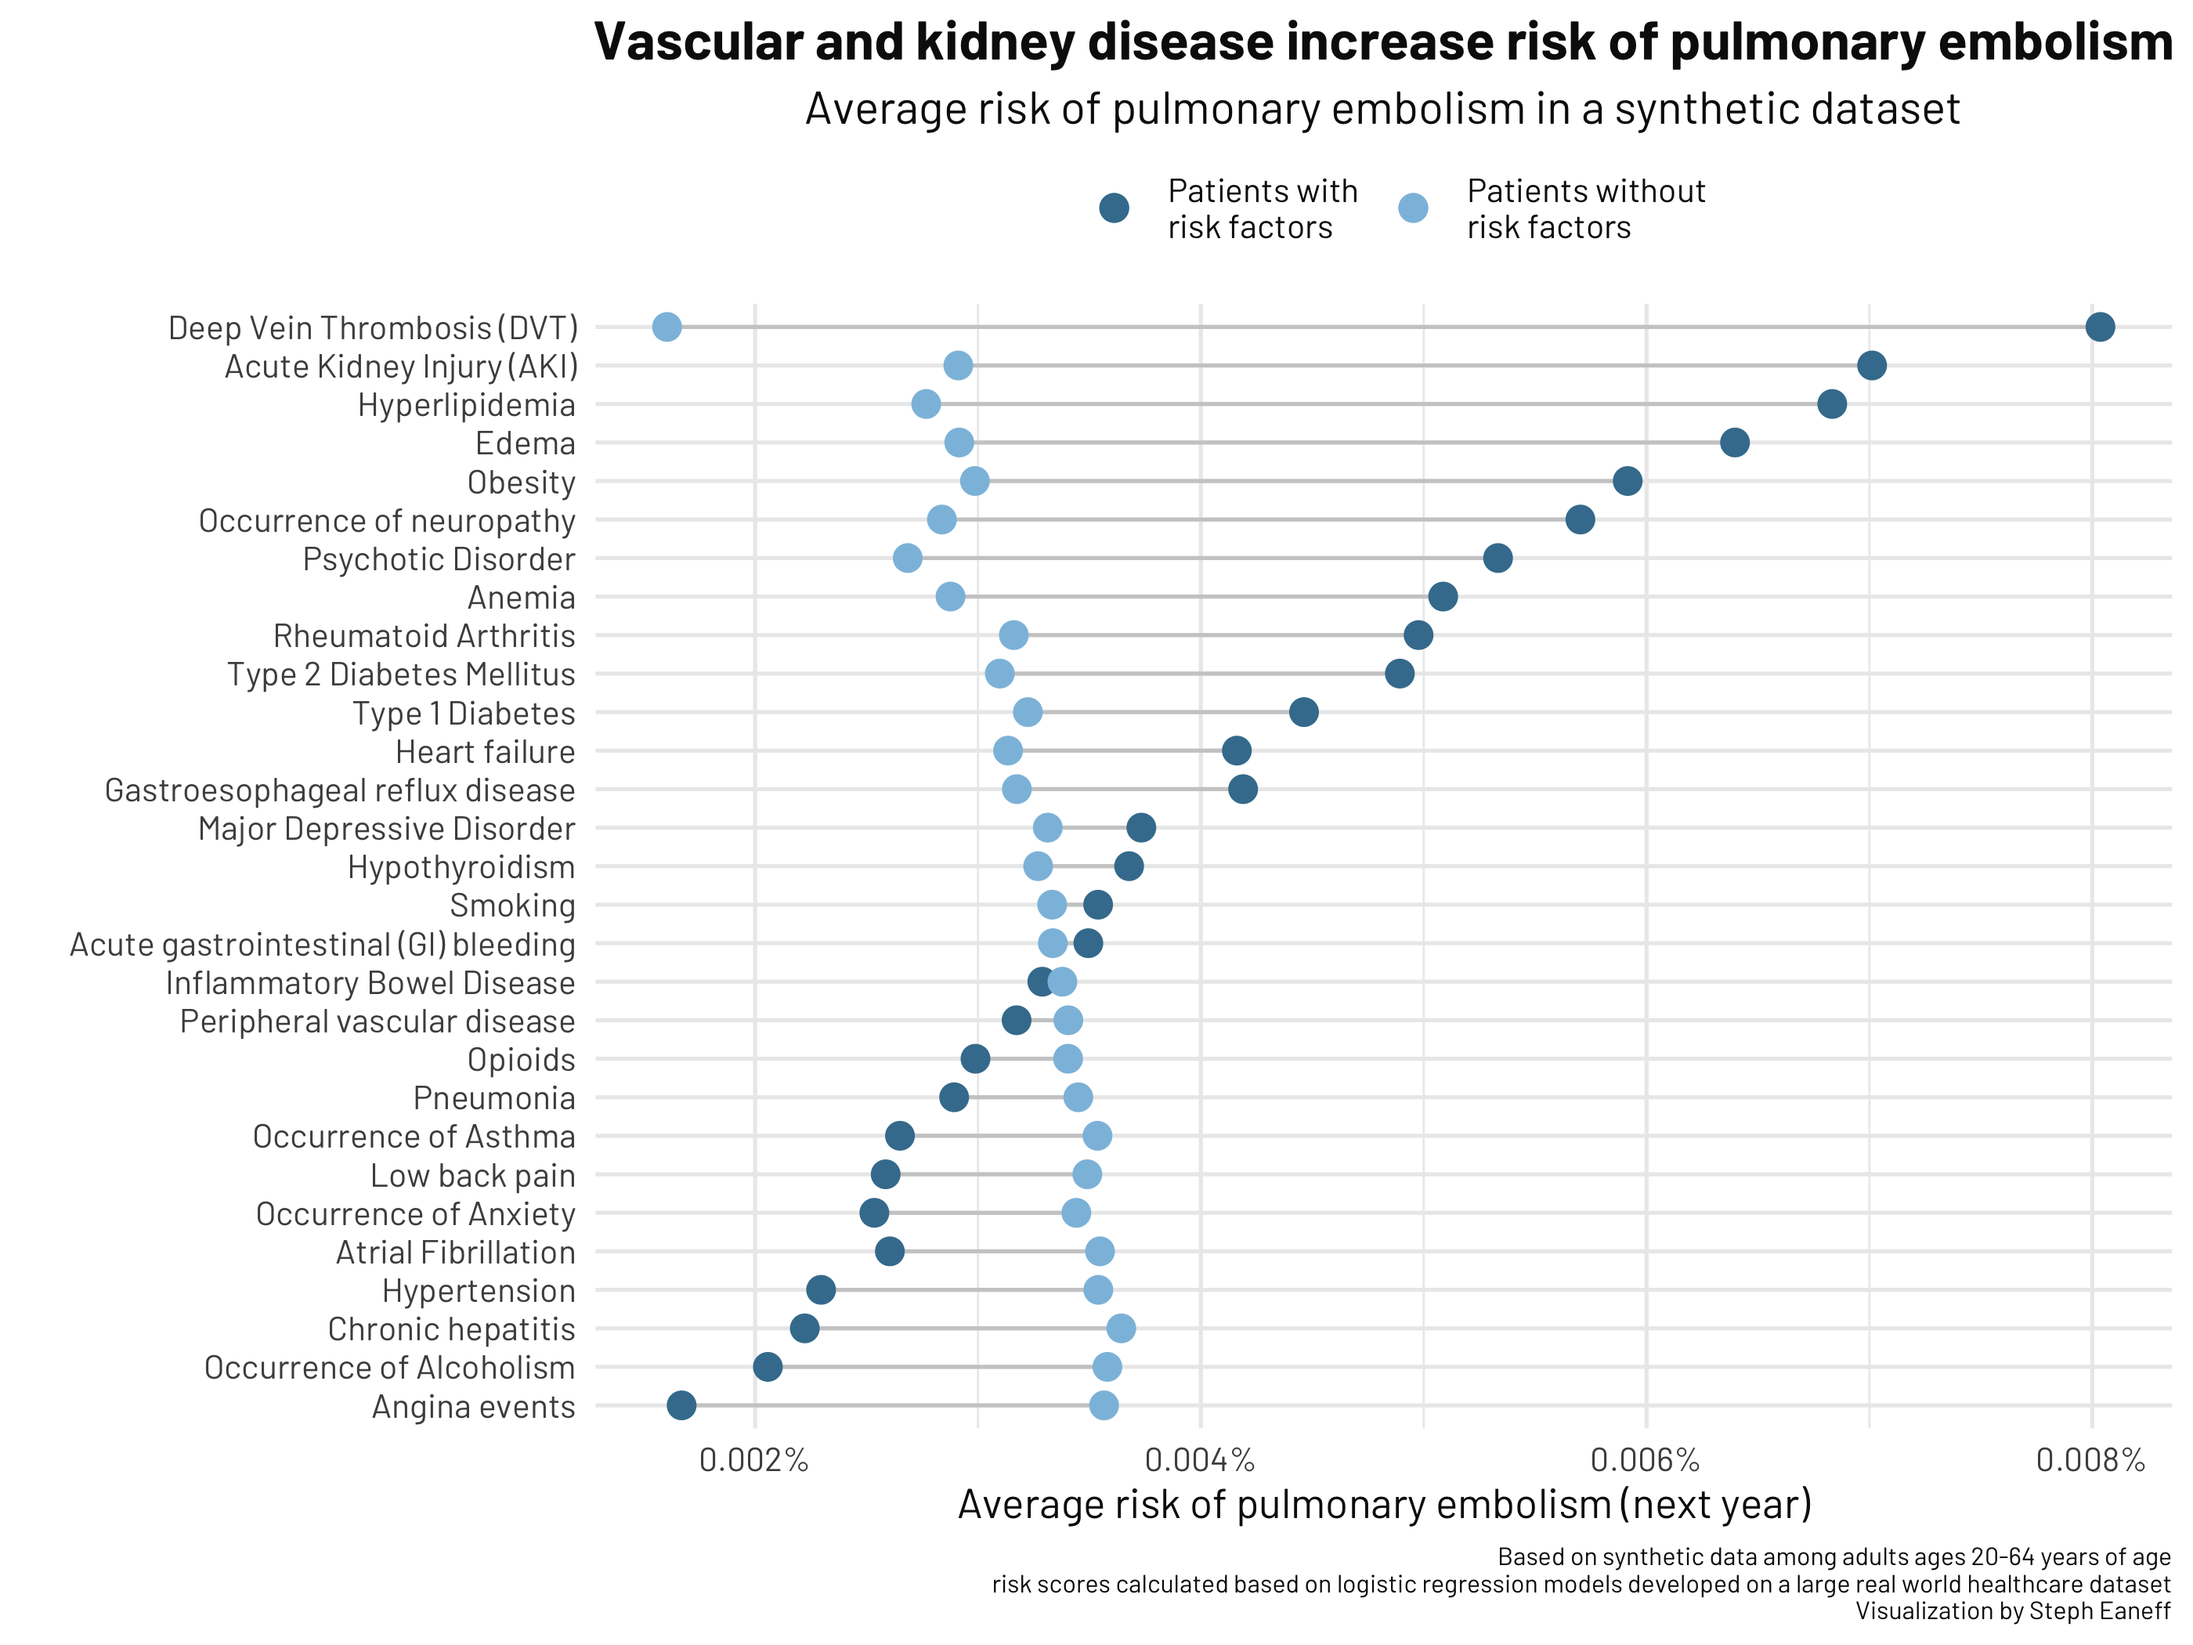
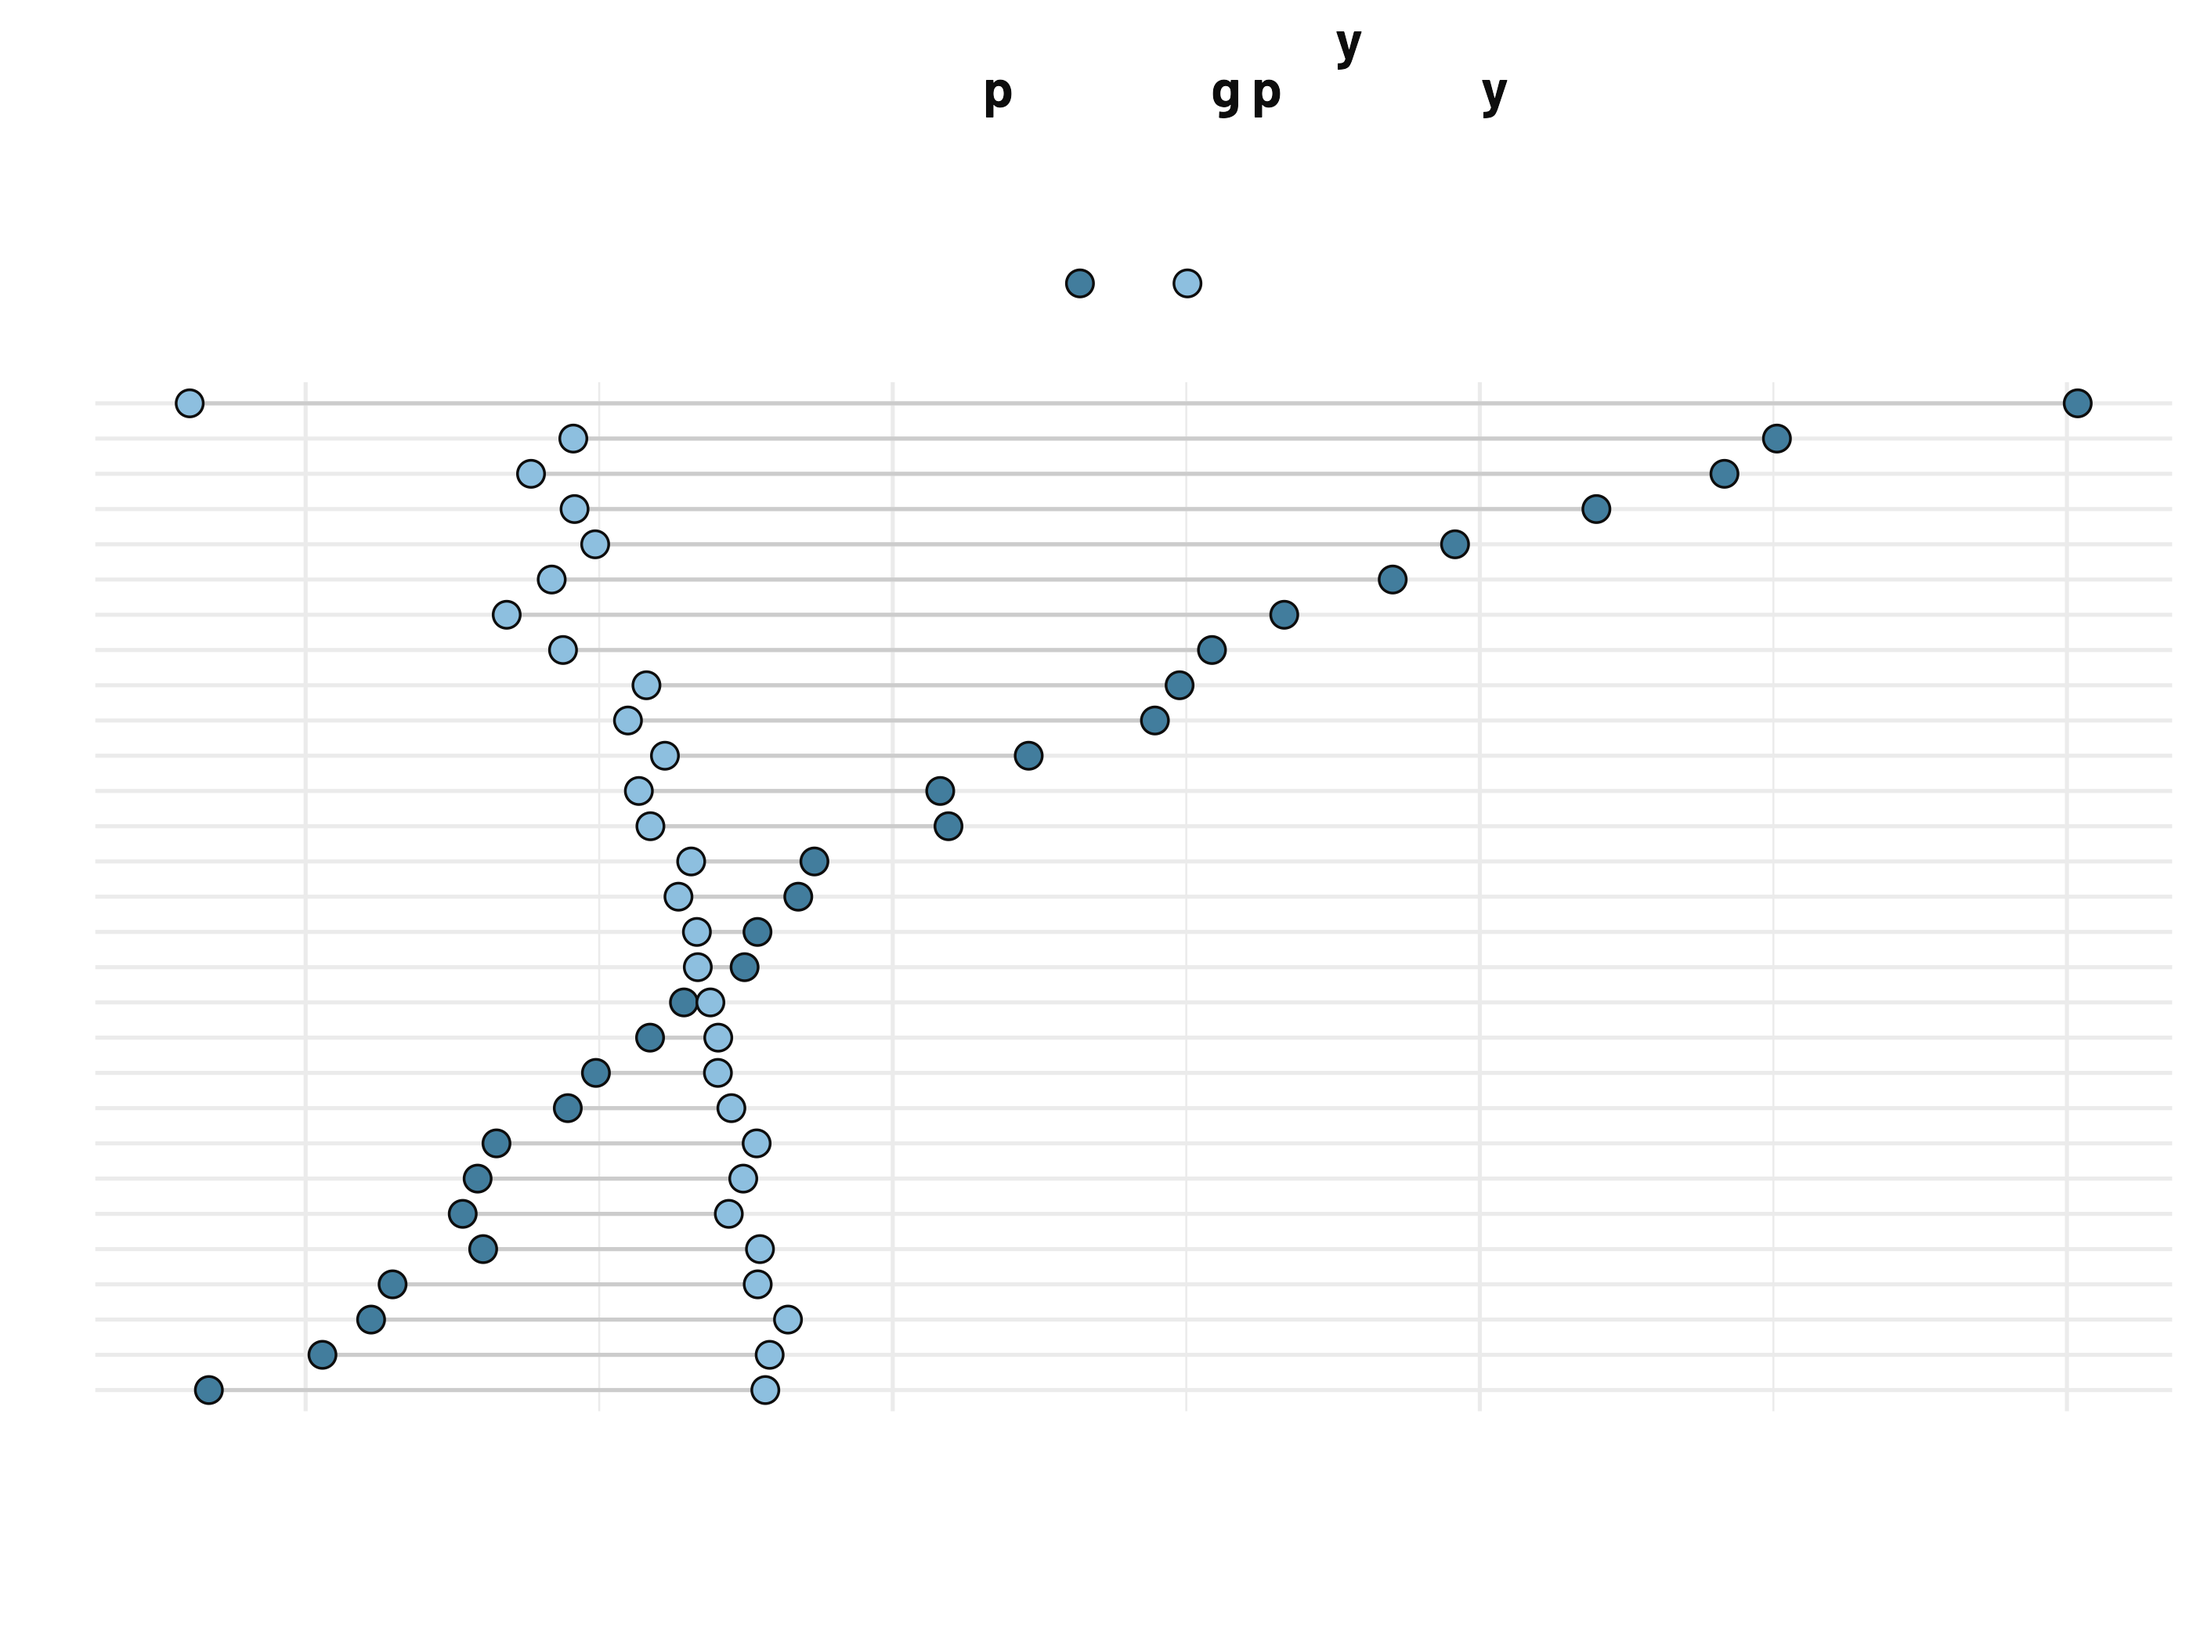
update font and point outlines

diff --git a/README.md b/README.md
@@ -61,17 +61,7 @@ New data are posted every Monday morning. You can use these data to create a vis
 ![Map showing the % of the population, per county, that has broadband internet access](2024/otherdata5_tidycensus/broadband.png)
 
 ---
-
-![Linechart showing the number of World Heritage Sites in Scandanavian Countries in 2004 and 2022](2024/week6_heritage_sites/heritage_lines.png)
-
----
 ![Linechart showing US valentines day spending on flowers, candy, and greeting cards over time](2024/week7_valentines/valentines_day_spend.png)
-
----
-
-<p align="center" width="100%">
-<img src = "2024/otherdata6_income_internet/rural_income_broadband.png" alt = "Scatterplot showing US county broadband internet access rates by median household income" width = "1080"/>
-</p>
 
 ---
 
